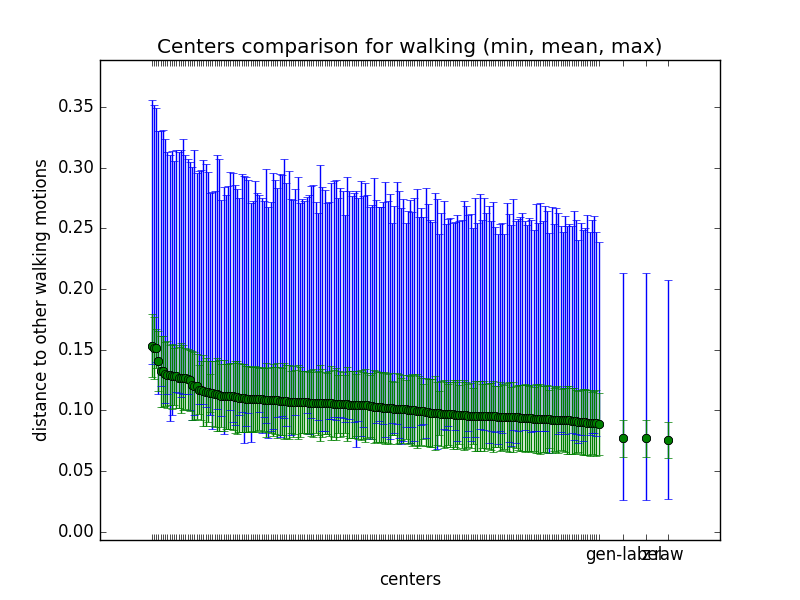
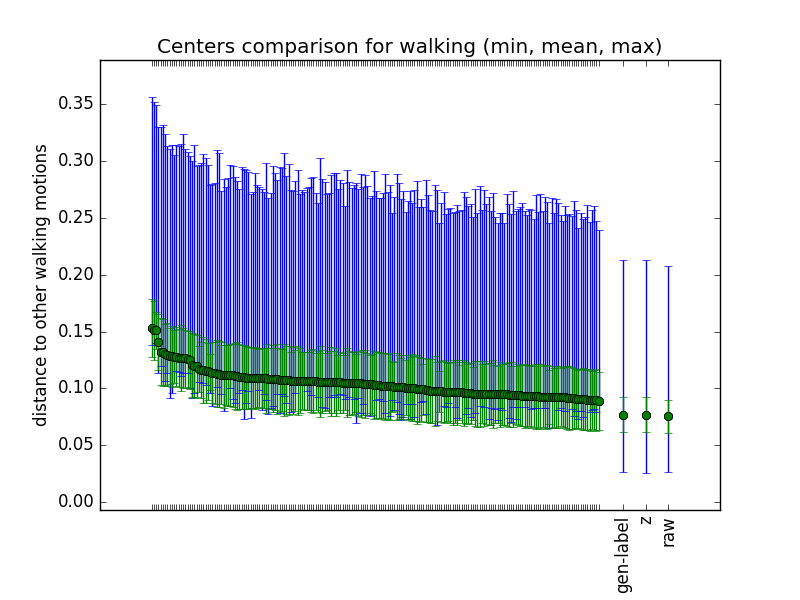
add

diff --git a/RNN/utils/association_evaluation.py b/RNN/utils/association_evaluation.py
@@ -348,7 +348,8 @@ def plot_results(directory, model_name, action_type):
 		plt.errorbar(x, y, yerr=yerr, fmt='o')
 		yerr = [data['std'][i] for i in idx]+data['std'][-3:]
 		plt.errorbar(x, y, yerr=yerr, fmt='o')
-		plt.xticks(x, ['']*200 + ['gen-label', 'z', 'raw'])
+		plt.xticks(x, ['']*200 + ['gen-label', 'z', 'raw'], rotation='vertical')
+		plt.subplots_adjust(bottom=0.15)
 		plt.margins(0.1)
 		plt.xlabel('centers')
 		plt.ylabel('distance to other %s motions'%action_type)
